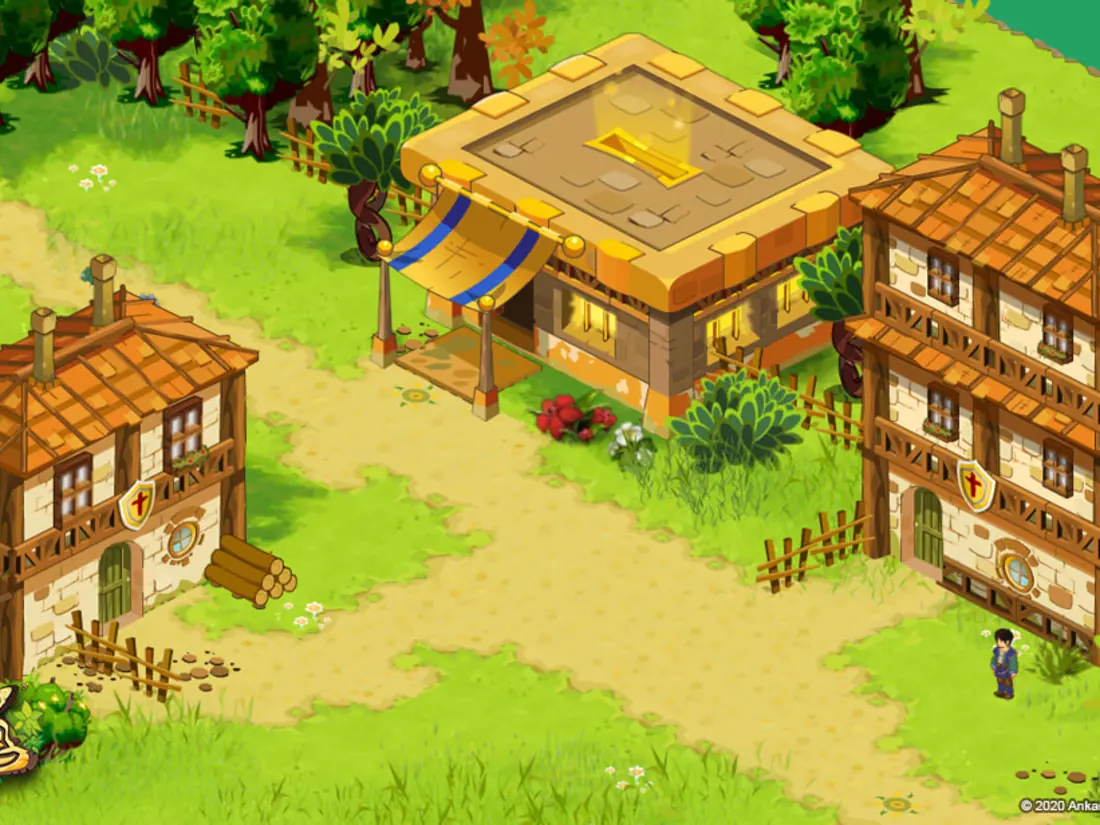
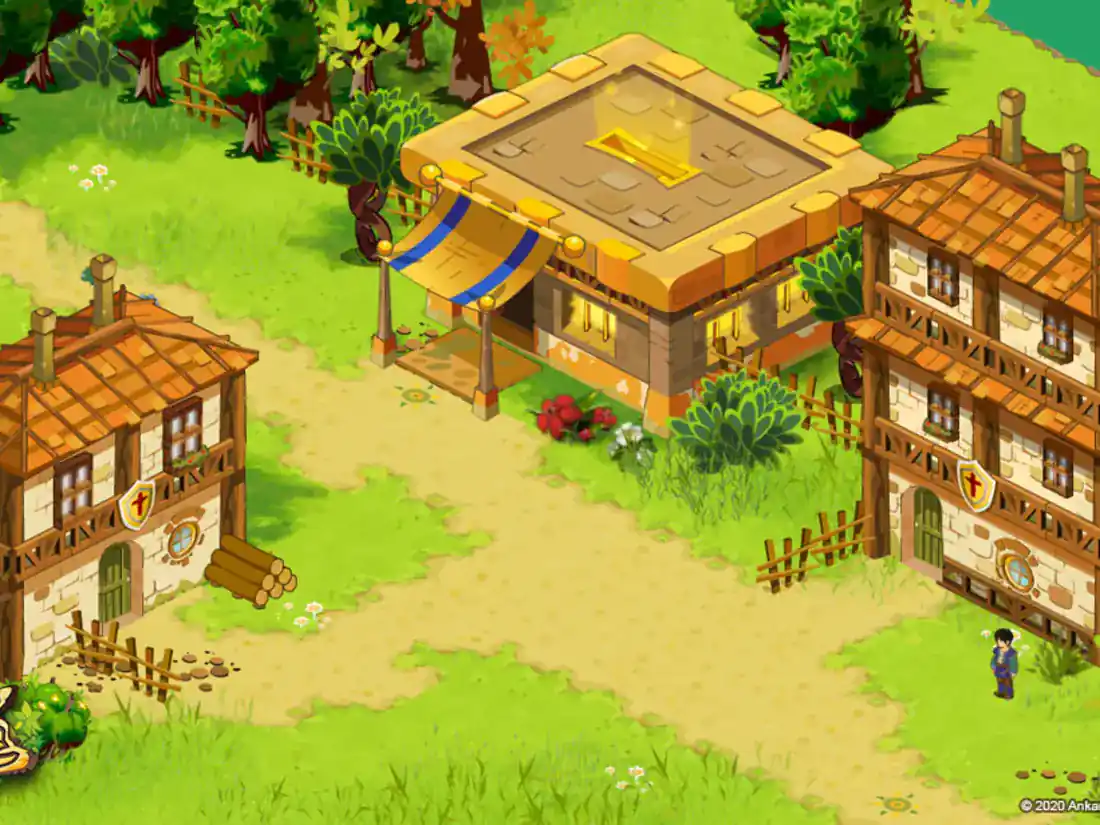
perf(website): keep the homepage loop off the network until the page loads
Under a real slow 4G, the village decor that paints the largest content
shared the network with the JavaScript and 207 KiB of video metadata,
and landed at 3.4 to 3.6 s.

The loops no longer fetch metadata up front, and the loop of the
entrance waits for the load event before it plays, so its 1.6 MiB come
after the images of the page. The village decor is re-encoded at
quality 40, from 93 to 58 KiB, at the same width: behind its veil the
loss does not show.

Measured locally with DevTools throttling, the LCP drops to 2.4 to
2.5 s and the load event comes 1.9 s earlier.

Changed region(s): [[0.0, 0.9091, 0.0309, 0.9394]]

diff --git a/packages/retro/src/hooks/use-player.ts b/packages/retro/src/hooks/use-player.ts
@@ -16,16 +16,23 @@ export const usePlayer = ({ isStill, isAuto }: PlayerParams) => {
       setIsPlaying(element !== null && !element.paused)
     }
 
+    const play = () => {
+      element?.play().catch(handlePlayback)
+    }
+
     element?.addEventListener('play', handlePlayback)
     element?.addEventListener('pause', handlePlayback)
 
     if (isStill) {
       element?.pause()
+    } else if (isAuto && document.readyState === 'complete') {
+      play()
     } else if (isAuto) {
-      element?.play().catch(handlePlayback)
+      window.addEventListener('load', play, { once: true })
     }
 
     return () => {
+      window.removeEventListener('load', play)
       element?.removeEventListener('play', handlePlayback)
       element?.removeEventListener('pause', handlePlayback)
     }

diff --git a/apps/website/src/components/loop-plate.test.tsx b/apps/website/src/components/loop-plate.test.tsx
@@ -90,6 +90,19 @@ describe('the loop plate', () => {
     expect(screen.getByRole('button', { name: 'Pause' })).toBeDefined()
   })
 
+  it('holds the loop of the entrance until the page has loaded', () => {
+    const play = spyOnPlayback()
+    vi.spyOn(document, 'readyState', 'get').mockReturnValue('loading')
+
+    show(true)
+
+    expect(play).not.toHaveBeenCalled()
+
+    window.dispatchEvent(new Event('load'))
+
+    expect(play).toHaveBeenCalledWith()
+  })
+
   it('sends the curtain to sleep once the pointer stops moving', () => {
     vi.useFakeTimers()
     spyOnPlayback()

diff --git a/apps/website/src/components/loop-plate.tsx b/apps/website/src/components/loop-plate.tsx
@@ -34,7 +34,7 @@ export const LoopPlate = ({ loop, isAuto = false }: LoopPlateProps) => {
         loop
         muted
         playsInline
-        preload="metadata"
+        preload="none"
       />
       {isStill ? null : <LoopCurtain isPlaying={isPlaying} onToggle={toggle} />}
     </div>
